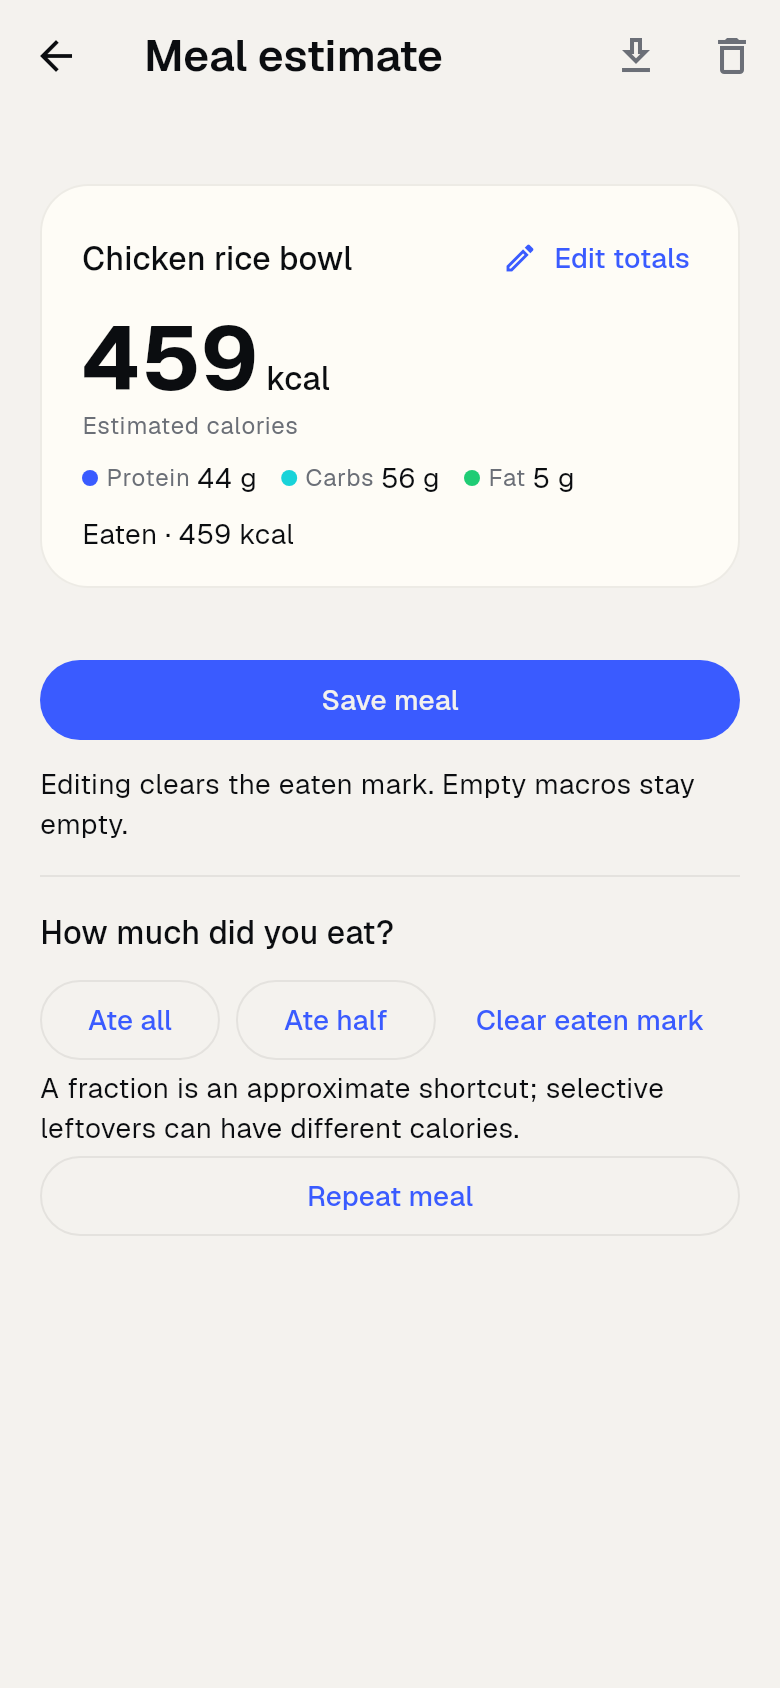
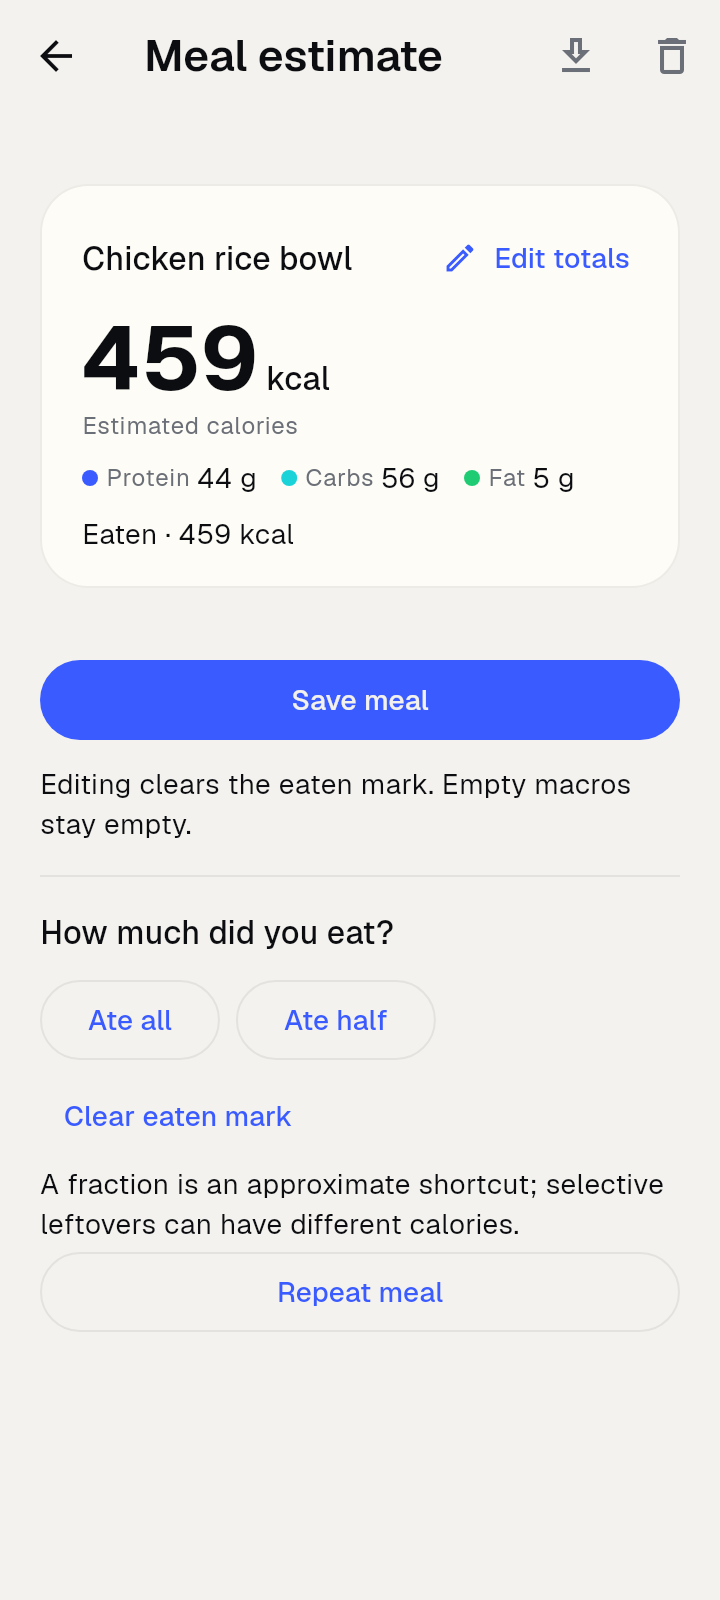
Record the Samsung device check and how to open the phone, since it was the last unverified part

diff --git a/docs/UI_REVIEW_AND_HANDOVER_2026-11-14.md b/docs/UI_REVIEW_AND_HANDOVER_2026-11-14.md
@@ -28,7 +28,7 @@ In the newest worktree:
 
 ```
 export PATH=$HOME/.local/share/flutter-3.41.9/bin:$PATH
-flutter test --update-goldens tool/ui/tier1_shots_test.dart   # writes tool/ui/shots/*.png (390x844, light+dark)
+flutter test --update-goldens tool/ui/tier1_shots_test.dart   # writes tool/ui/shots/*.png (360x800, light+dark)
 flutter test test/tier1                                        # 105 tests, about 2 minutes
 dart format lib/features/tier1 test/tier1                      # pinned Dart 3.11.5; do not use another Dart
 flutter analyze lib/features/tier1 test/tier1                  # CI gate: must print "No issues found!" (infos fail it)
@@ -85,8 +85,15 @@ an Edit button. (d) is DONE in `bff13cb` (owner said yes): a summary card (name,
 **Still open with the owner:** does Tier1 take the design handoff's components (ring, nav), or only its tokens?
 Items 1–8 need no answer to that; they use tokens that already exist in `lib/core/theme/`.
 
-**Device check** still needs the unlocked Samsung (locked on 2026-11-14 and 2026-11-15). The renderer replaces it
-for layout and copy, not for camera, performance, or system insets.
+**Device check DONE 2026-11-15** on the Samsung (APK from workflow run 43756437794, commit `ae0cccb`, installed
+with `phone-adb install -r`). The phone has no lock: `phone-adb shell input keyevent KEYCODE_WAKEUP` then
+`phone-adb shell wm dismiss-keyguard` opens it. Checked: name "Ravlo", camera screen, manual entry with the
+keyboard, save, history, meal summary card, today line; insets top and bottom are fine
+(`device-SM-G780G-meal-and-home.png`). Found and fixed in `e4b7f12`: the phone is 360dp wide, so the history status
+line wrapped; it is now "380 kcal · not eaten yet", and the renderer draws at 360x800 for that reason.
+Not checked on the device: a real photo estimate (it sends a photo to the cloud; the owner should trigger that).
+Open observation, not changed: on a saved, unchanged meal `Save meal` is still the biggest button although there
+is nothing to save; `_save` writes an edit and a `manual_saved` trace even then, so changing it needs care.
 
 **Worktree commits this session:** `3b551cc` (AGENTS.md §3 routes corrected), `1b2e122` + `503496d` (Tier1
 formatted, renderer added). An unfinished emulator screenshot test from a cut-off agent was removed; the
